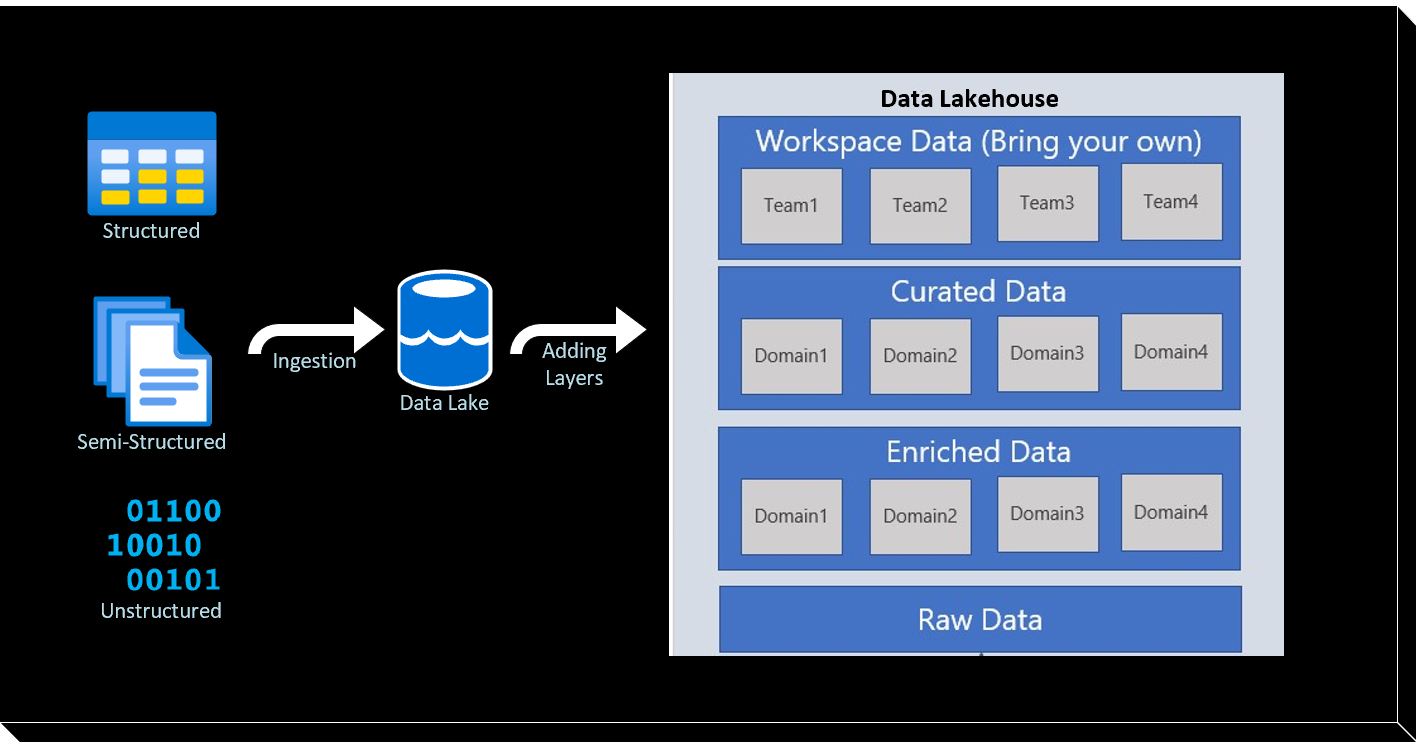
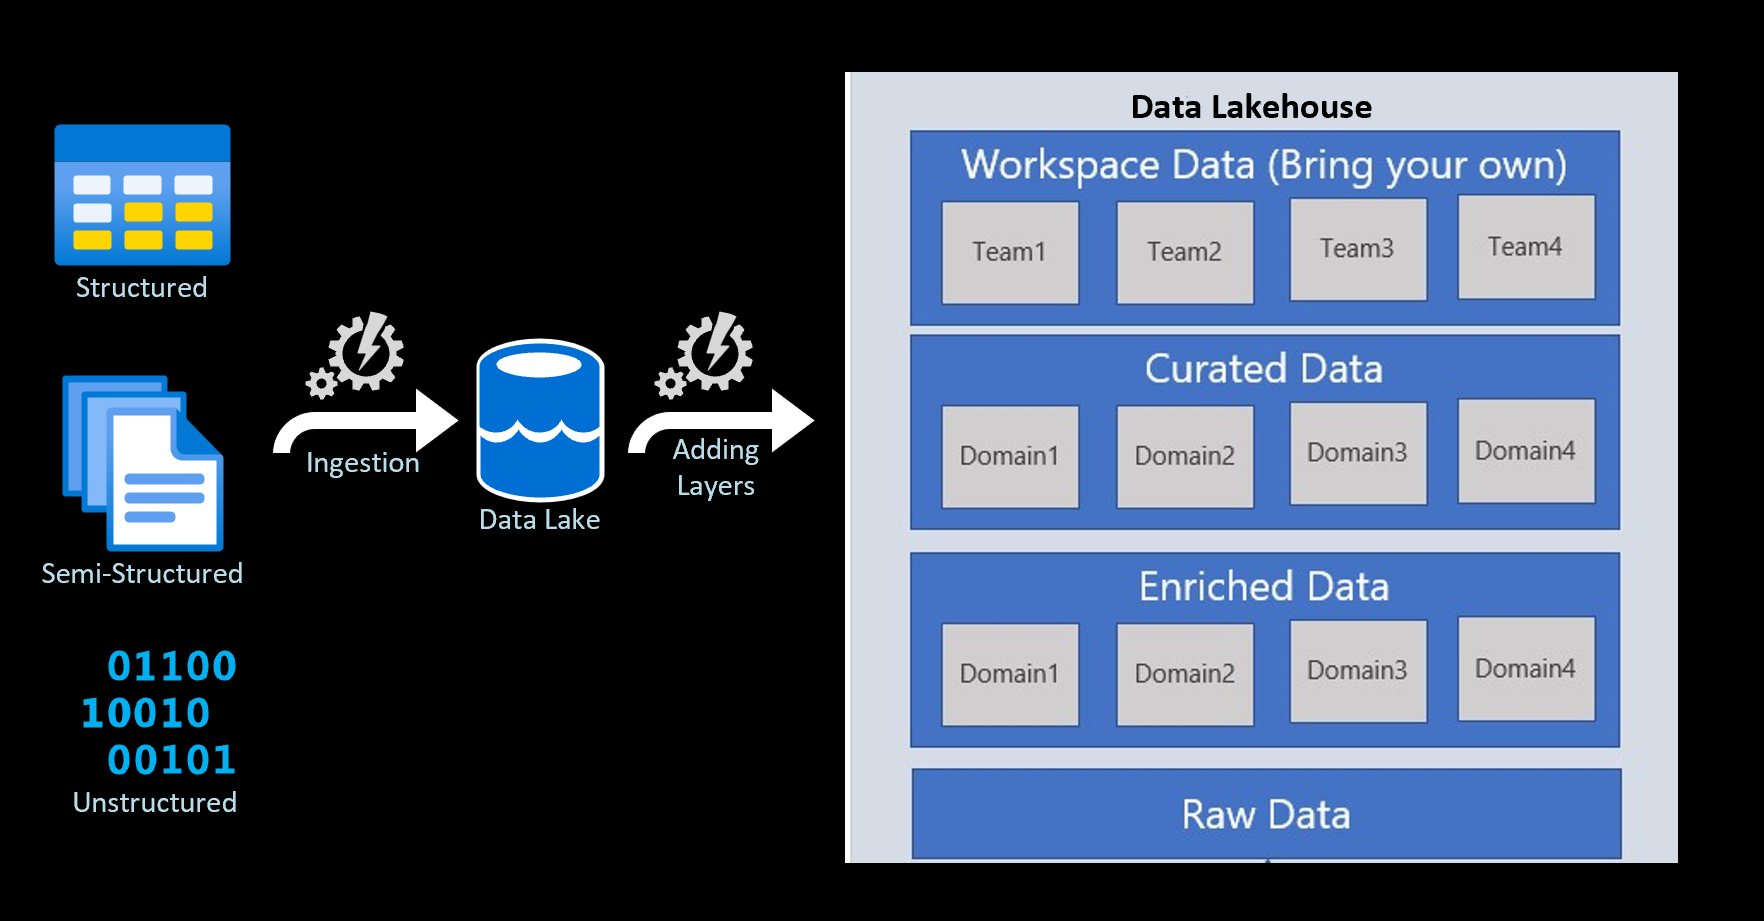
Updating DataLakes

diff --git a/content/DataAnalytics/splitofdata2.md b/content/DataAnalytics/splitofdata2.md
@@ -31,6 +31,8 @@ Typically this transformation uses an **ELT (extract-load-transform)** pipeline,
 
 Data Lake does not enforce schema and there can be multiple layers of same data stored which could cause inconsistencies, orphan data or isolated data. Purging becomes an essential component which you should plan when going for a Data Lake Architecture. A data lakehouse is a new, open data management architecture that combines the flexibility, cost-efficiency, and scale of data lakes with the data management and ACID transactions of data warehouses. Data passes through multiple layers of validations and transformations before being stored in a layout optimized for efficient analytics.
 
+    ![LakeToLakehouse](/images/DataLaketoLakehouse.png)
+
 When deciding the number of storage accounts you want to create, the following considerations are helpful in deciding the number of storage accounts you want to provision.
 
 * A single storage account gives you the ability to manage a single set of control plane management operations such as RBACs, firewall settings, data lifecycle management policies for all the data in your storage account, while allowing you to organize your data using containers, files and folders on the storage account. If you want to optimize for ease of management, specially if you adopt a centralized data lake strategy, this would be a good model to consider.
